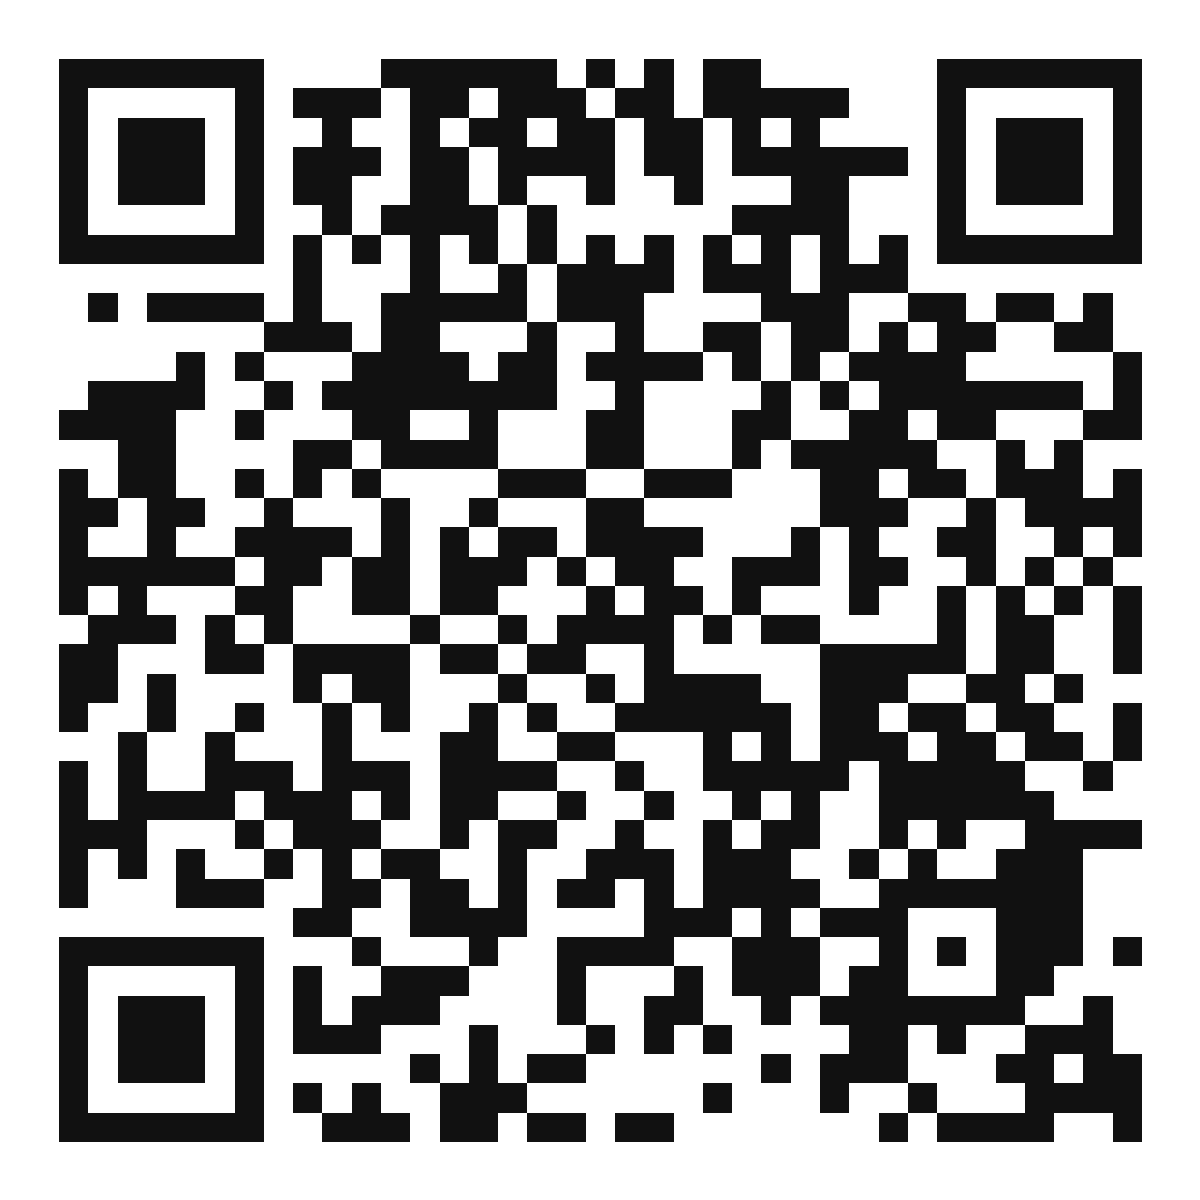
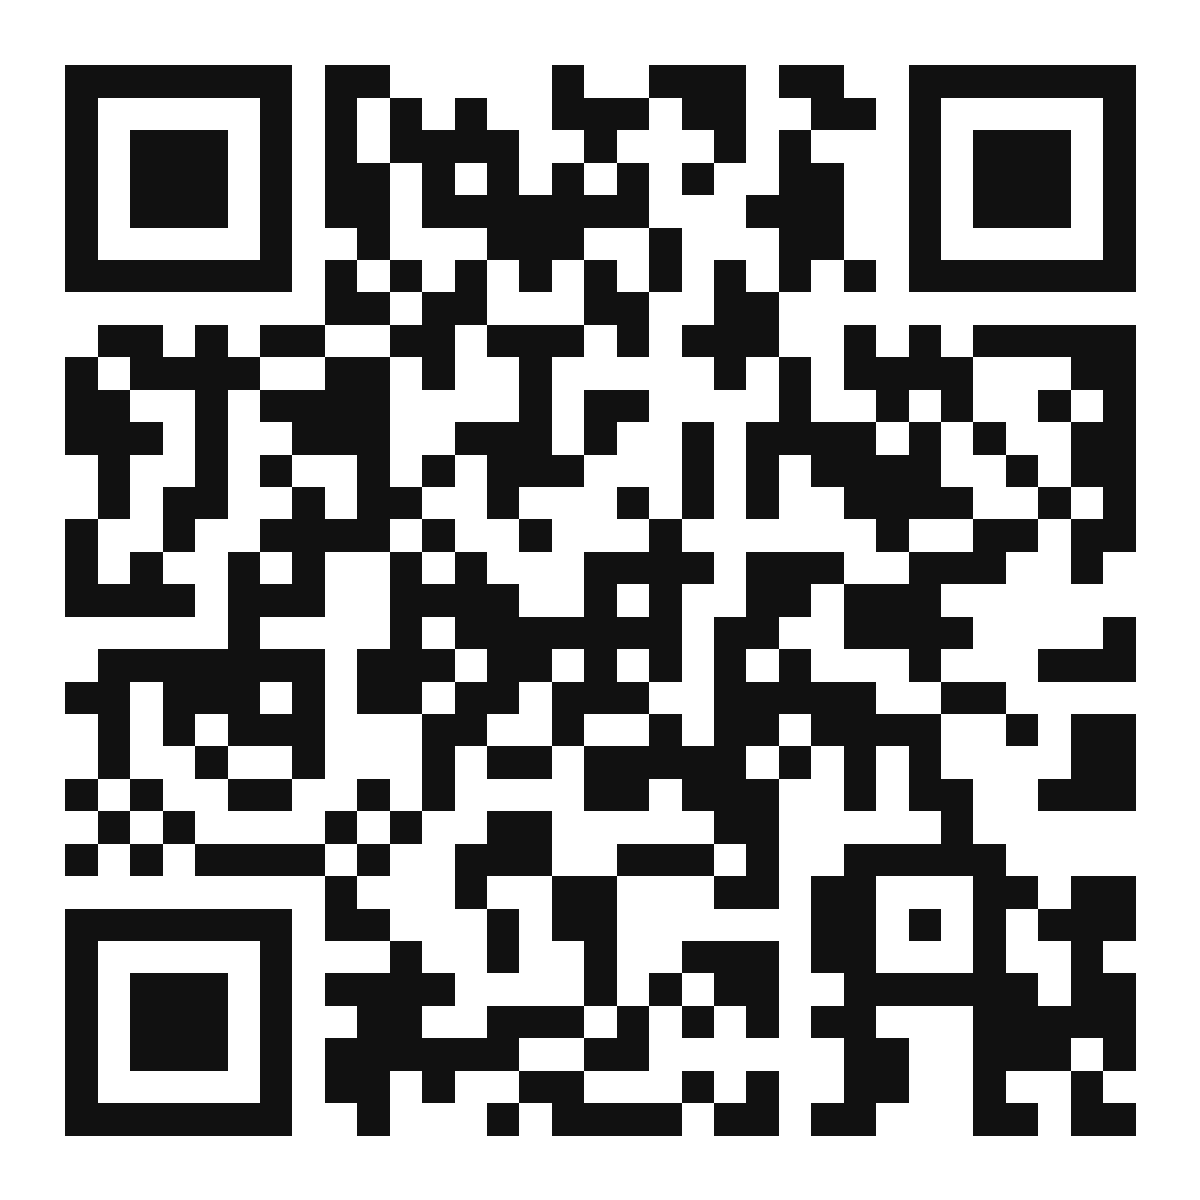
chore: host on the Devya VPS at ar-menu.devya.dev
Leave Vercel: the site becomes a static export served by nginx on the
Devya VPS (exact .usdz/.glb content types now in the nginx site), the
nine QR codes are regenerated for https://ar-menu.devya.dev, and the
Jenkins gate checks the export, the dish pages and the QR manifest.

diff --git a/app/layout.tsx b/app/layout.tsx
@@ -4,11 +4,7 @@ import { Settings } from '@/components/Settings'
 import { DEFAULT_THEME, THEME_COLOR } from '@/lib/theme'
 import './globals.css'
 
-const siteUrl =
-  process.env.NEXT_PUBLIC_SITE_URL ??
-  (process.env.VERCEL_PROJECT_PRODUCTION_URL
-    ? `https://${process.env.VERCEL_PROJECT_PRODUCTION_URL}`
-    : 'http://localhost:3000')
+const siteUrl = process.env.NEXT_PUBLIC_SITE_URL ?? 'https://ar-menu.devya.dev'
 
 export const metadata: Metadata = {
   metadataBase: new URL(siteUrl),

diff --git a/README.md b/README.md
@@ -14,7 +14,7 @@ public/photos/burger.jpg
 public/models/burger.glb   → Android Scene Viewer / WebXR
 public/models/burger.usdz  → iOS Quick Look
         │
-        │  vercel --prod     (page must be HTTPS; AR refuses http)
+        │  deploy-vps.sh     (page must be HTTPS; AR refuses http)
         ▼
 https://your-menu.app/dish/burger
         │
@@ -109,21 +109,25 @@ rather than starting a new one.
 
 ## Deploy, then QR
 
-Order matters — the QR encodes the live URL, so generating codes before the
-first deploy means reprinting every table tent.
+Production is https://ar-menu.devya.dev: the static export (`output: 'export'` → `out/`)
+served by nginx on the Devya VPS (`/home/devya/projects/ar-menu/current`, site
+`deploy/nginx/ar-menu.conf`, TLS by certbot; it left Vercel on 2026-11-27).
 
 ```bash
-vercel --prod                                   # note the URL it prints
-SITE_URL=https://your-menu.vercel.app pnpm qr
-git add public/qr && git commit -m "Add QR codes" && git push
+bash scripts/deploy-vps.sh                      # builds origin/main on the Mac, ships out/
+SITE_URL=https://ar-menu.devya.dev pnpm qr      # only if the URL ever changes
+git add public/qr && git commit -m "Regenerate QR codes" && git push
 ```
 
-Then open `https://your-menu.vercel.app/print` and press ⌘P for the table tents.
+Order matters — the QR encodes the live URL, so generating codes before the
+first deploy means reprinting every table tent. Then open
+`https://ar-menu.devya.dev/print` and press ⌘P for the table tents.
 Print at 100% scale — scaling down a QR below ~2cm makes it unreliable at
 arm's length.
 
-Set `NEXT_PUBLIC_SITE_URL` in the Vercel project too, so Open Graph previews
-resolve against the real domain.
+Merge gate: Jenkins `continuous-integration/jenkins/pr-head`, which runs
+`bash scripts/ci-local.sh` (tests, build, and a check that every QR in
+`public/qr/manifest.json` encodes `https://ar-menu.devya.dev`).
 
 ## Local dev
 
